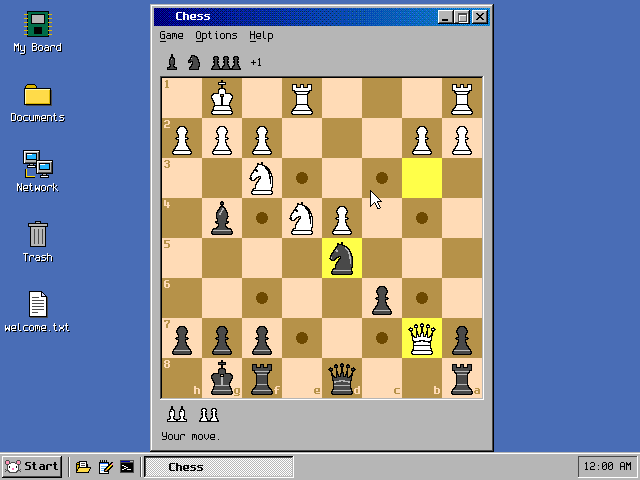
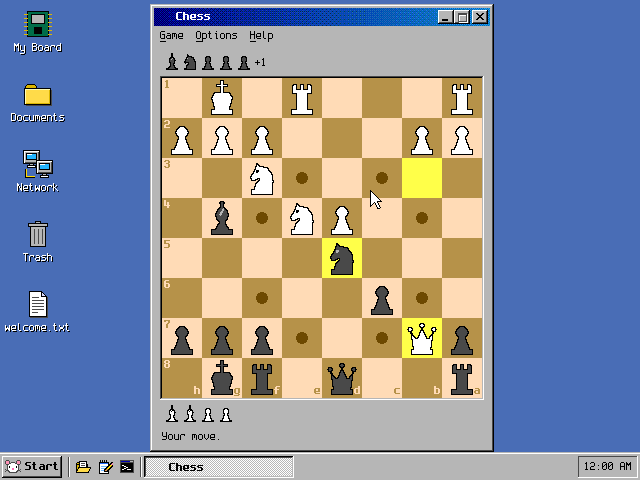
Chess mock-ups: a plainer set of pieces, captured pieces evenly spaced
The owner's remarks on the first drawings. A second set, "symbols", beside
the first; one step between all captured pieces; moving by drag or by two
clicks recorded as decided. Mock-ups only, drawn again on the PC.

Claude-Session: https://claude.ai/code/session_011bRYU7SLiyBX64fjL1AwQX

diff --git a/tools/mockup/chess_pieces.py b/tools/mockup/chess_pieces.py
@@ -8,6 +8,9 @@ drawings serve both sides.
 
     python3 tools/mockup/chess_pieces.py header out.inc   the rows, for C++
     python3 tools/mockup/chess_pieces.py sheet out.png    a sheet to look at
+
+There are two sets: the first one drawn ("classic"), and "symbols", plainer,
+which the mock-up uses. The sheet shows both.
 """
 import sys
 
@@ -119,8 +122,65 @@ def king(p):
     p.foot()
 
 
-PIECES = [("pawn", pawn), ("knight", knight), ("bishop", bishop), ("rook", rook), ("queen", queen),
-          ("king", king)]
+CLASSIC = [("pawn", pawn), ("knight", knight), ("bishop", bishop), ("rook", rook), ("queen", queen),
+           ("king", king)]
+
+
+# The second set (the owner asked for one "more symbolic, less detail"):
+# each piece is its sign and little else. Heavier shapes, a flat slab to
+# stand on, and no inner lines but the bishop's cut and the knight's eye.
+def slab(p):
+    p.box(9, 31.5, 31, 36.5)
+
+
+def s_pawn(p):
+    p.oval(20, 14.5, 6.6)
+    p.poly((16, 20), (24, 20), (28.5, 32), (11.5, 32))
+    slab(p)
+
+
+def s_knight(p):
+    p.poly((11.5, 32), (13, 26), (18.5, 19.5), (13.5, 22.5), (9.5, 23), (7.5, 19.5), (12.5, 11.5),
+           (14.5, 4.5), (19, 8), (25, 9), (30, 14.5), (31.5, 23), (30.5, 32))
+    p.dot(15.2, 13.2, 1.3)
+    slab(p)
+
+
+def s_bishop(p):
+    p.oval(20, 5.4, 2.6)
+    p.poly((20, 6.5), (25, 11.5), (27, 17), (25.5, 22), (22.5, 25), (17.5, 25), (14.5, 22), (13, 17),
+           (15, 11.5))
+    p.poly((17, 24), (23, 24), (28, 32), (12, 32))
+    p.line((22.4, 9.5), (18, 17), width=1.6)
+    slab(p)
+
+
+def s_rook(p):
+    p.box(10.5, 6.5, 29.5, 16)
+    p.cut(15, 5, 18, 10.5)
+    p.cut(22, 5, 25, 10.5)
+    p.box(14, 15.5, 26, 32)
+    slab(p)
+
+
+def s_queen(p):
+    for x, y in ((8.2, 11.5), (20, 7.4), (31.8, 11.5)):
+        p.oval(x, y, 2.7)
+    p.poly((11, 32), (8.2, 12.5), (14.5, 21), (20, 9), (25.5, 21), (31.8, 12.5), (29, 32))
+    slab(p)
+
+
+def s_king(p):
+    p.box(18.2, 2.6, 21.8, 15)
+    p.box(14.4, 5.8, 25.6, 9.2)
+    p.poly((12.5, 32), (9, 19.5), (12, 14.5), (28, 14.5), (31, 19.5), (27.5, 32))
+    slab(p)
+
+
+SYMBOLS = [("pawn", s_pawn), ("knight", s_knight), ("bishop", s_bishop), ("rook", s_rook),
+           ("queen", s_queen), ("king", s_king)]
+SETS = {"classic": CLASSIC, "symbols": SYMBOLS}
+PIECES = SYMBOLS
 
 
 def rows(draw, size):
@@ -168,8 +228,11 @@ def sheet(path):
     squares = [(255, 255, 255), (109, 146, 85), (255, 219, 170), (182, 146, 85)]
     white = {"X": (0, 0, 0), "o": (255, 255, 255), "-": (0, 0, 0)}
     black = {"X": (0, 0, 0), "o": (73, 73, 85), "-": (182, 182, 170)}
-    img = Image.new("RGB", (6 * BIG, 8 * BIG + 2 * SMALL + 8), (182, 182, 170))
-    for i, (name, draw) in enumerate(PIECES):
+    img = Image.new("RGB", (12 * BIG + 8, 8 * BIG + 2 * SMALL + 8), (182, 182, 170))
+    # The new set on the left, the first one on the right.
+    both = [(i * BIG, d) for i, (_, d) in enumerate(SYMBOLS)]
+    both += [(6 * BIG + 8 + i * BIG, d) for i, (_, d) in enumerate(CLASSIC)]
+    for left, draw in both:
         big, small = rows(draw, BIG), rows(draw, SMALL)
         for band in range(8):
             ink = white if band % 2 == 0 else black
@@ -177,13 +240,13 @@ def sheet(path):
             for y in range(BIG):
                 for x in range(BIG):
                     ch = big[y][x]
-                    img.putpixel((i * BIG + x, band * BIG + y), sq if ch == " " else ink[ch])
+                    img.putpixel((left + x, band * BIG + y), sq if ch == " " else ink[ch])
         for band, ink in enumerate((white, black)):
             for y in range(SMALL):
                 for x in range(SMALL):
                     ch = small[y][x]
                     if ch != " ":
-                        img.putpixel((i * BIG + 11 + x, 8 * BIG + 4 + band * SMALL + y), ink[ch])
+                        img.putpixel((left + 10 + x, 8 * BIG + 4 + band * SMALL + y), ink[ch])
     img.resize((img.width * 2, img.height * 2), Image.Resampling.NEAREST).save(path)
 
 

diff --git a/tools/mockup/chess_mockup.cpp b/tools/mockup/chess_mockup.cpp
@@ -169,14 +169,14 @@ private:
         }
     }
 
-    // A row of captured pieces, those of a kind close together, and by how
-    // many pawns that side leads.
+    // A row of captured pieces, evenly spaced, and by how many pawns that
+    // side leads. Fifteen fit.
     void paint_strip(app::Canvas &c, int top, const char *taken, int lead)
     {
         int x = kMargin + 2;
         for (const char *p = taken; *p != 0; p++) {
             draw_piece(c, x, top + 2, *p, false);
-            x += p[1] == p[0] ? 10 : kSmallSize + 2;
+            x += kSmallSize - 2; // one step for all of them
         }
         if (lead > 0) {
             char text[16];

diff --git a/docs/journal/2026-11-18-chess-design.md b/docs/journal/2026-11-18-chess-design.md
@@ -196,3 +196,28 @@ mcu-max, something else), the owner chose **our own engine**. It is
 recorded in `docs/DECISIONS.md`. The look, the levels and the name have not
 been answered yet. The rules and the search do not depend on them, so they
 can be written and tested on the PC meanwhile, as their own piece of work.
+
+## The owner's first look at the mock-ups (the same day)
+
+> the captured pieces show non regular spacing between them.
+>
+> Produce a new pieces theme, more symbolic, less detail.
+>
+> Pieces move either by dragging or by click on piece and click on
+> destination
+
+- The spacing: the first drawing put pieces of one kind close together
+  and left a gap between kinds, as the online boards do. The owner read it
+  as uneven. Now every captured piece is one step of 18 pixels from the
+  last; all fifteen a side can lose still fit beside the "+1".
+- A second set of pieces, "symbols", in `tools/mockup/chess_pieces.py`
+  beside the first ("classic"): each piece is its sign and little else. A
+  flat slab to stand on, heavier shapes, three points on the queen's crown
+  instead of five, and no inner lines but the bishop's cut and the knight's
+  eye. The mock-ups use it; `chess-pieces.png` shows the new set on the
+  left and the first on the right. Which of the two stays is the owner's
+  to say.
+- Moving a piece by dragging it, or by a click on it and a click on where
+  it goes: decided by the owner, as proposed.
+
+The three mock-ups were drawn again. PC only; nothing built.

diff --git a/docs/DECISIONS.md b/docs/DECISIONS.md
@@ -426,8 +426,12 @@ in `docs/journal/2026-11-18-chess-design.md`. Nothing is built.
   for this project in `core/src/games/`, tested on the PC. Not micro-Max
   (through mcu-max), and not a port of a larger engine. The points below
   are still his to choose.
+- Decided by the owner (2026-11-18): a piece is moved by dragging it, or
+  by a click on it and a click on where it goes. The captured pieces are
+  evenly spaced.
 - The look: squares of 40 pixels, the pieces as drawn by
-  `tools/mockup/chess_pieces.py`, green with white squares or brown with
+  `tools/mockup/chess_pieces.py` (two sets: "symbols", plainer, asked
+  for by the owner after the first, "classic"; which stays is open), green with white squares or brown with
   cream ones, the last move in yellow, dots where a picked piece can go,
   letters and numbers inside the squares, the board turned so the user's
   side is at the bottom.
